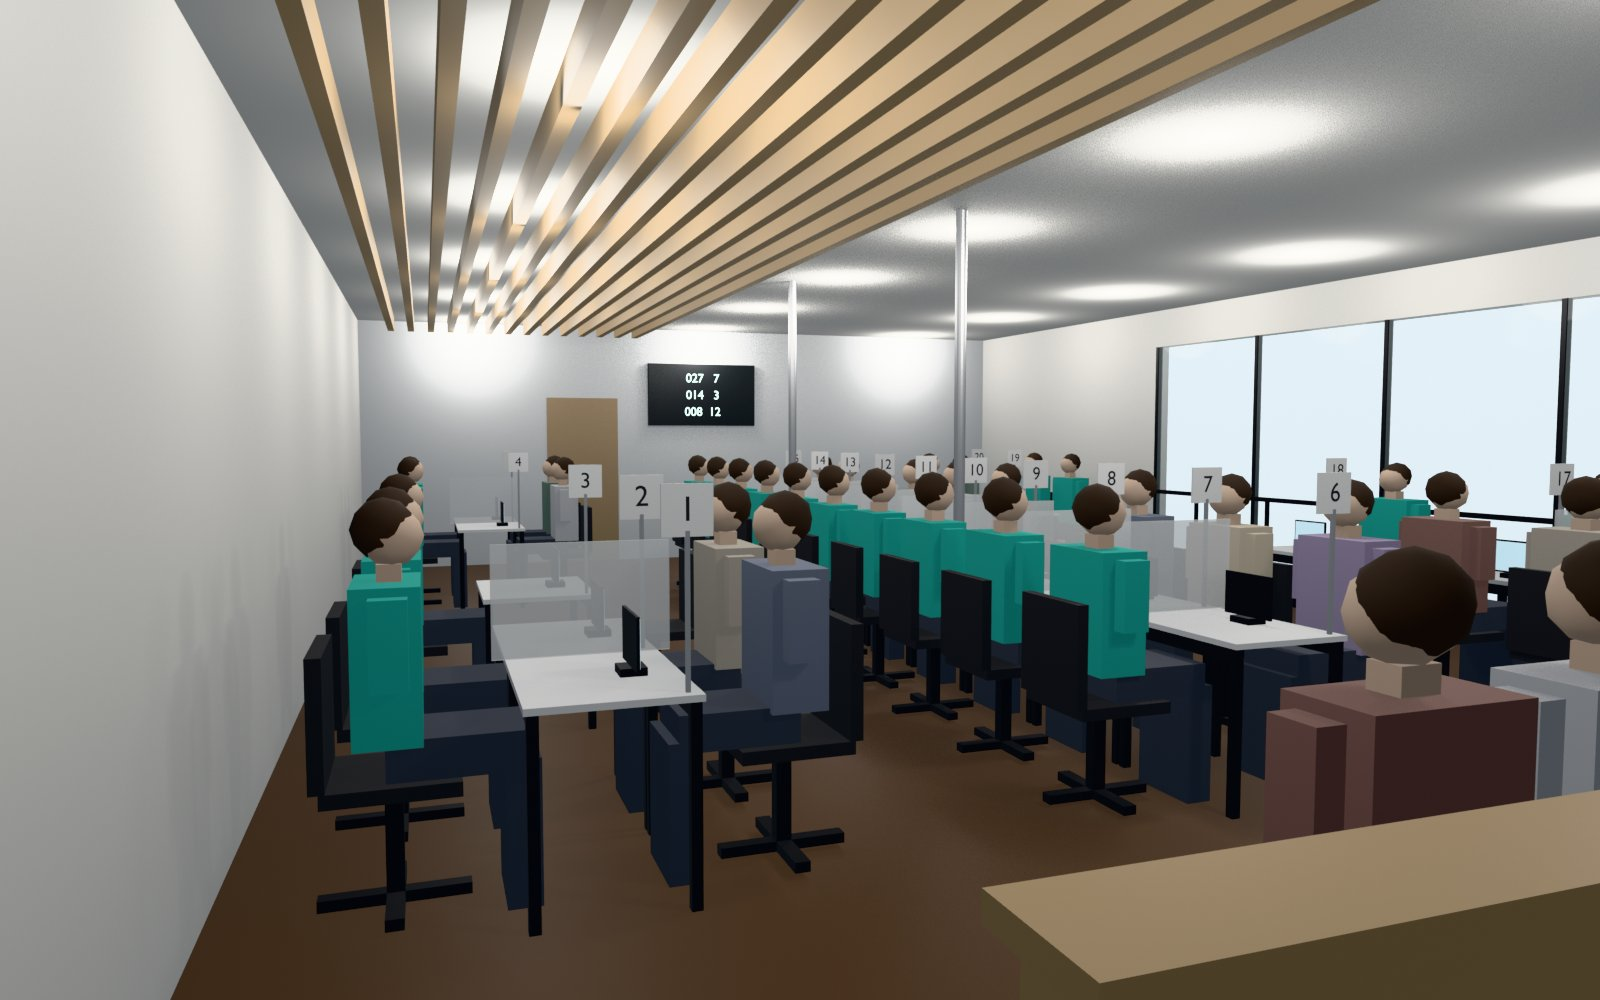
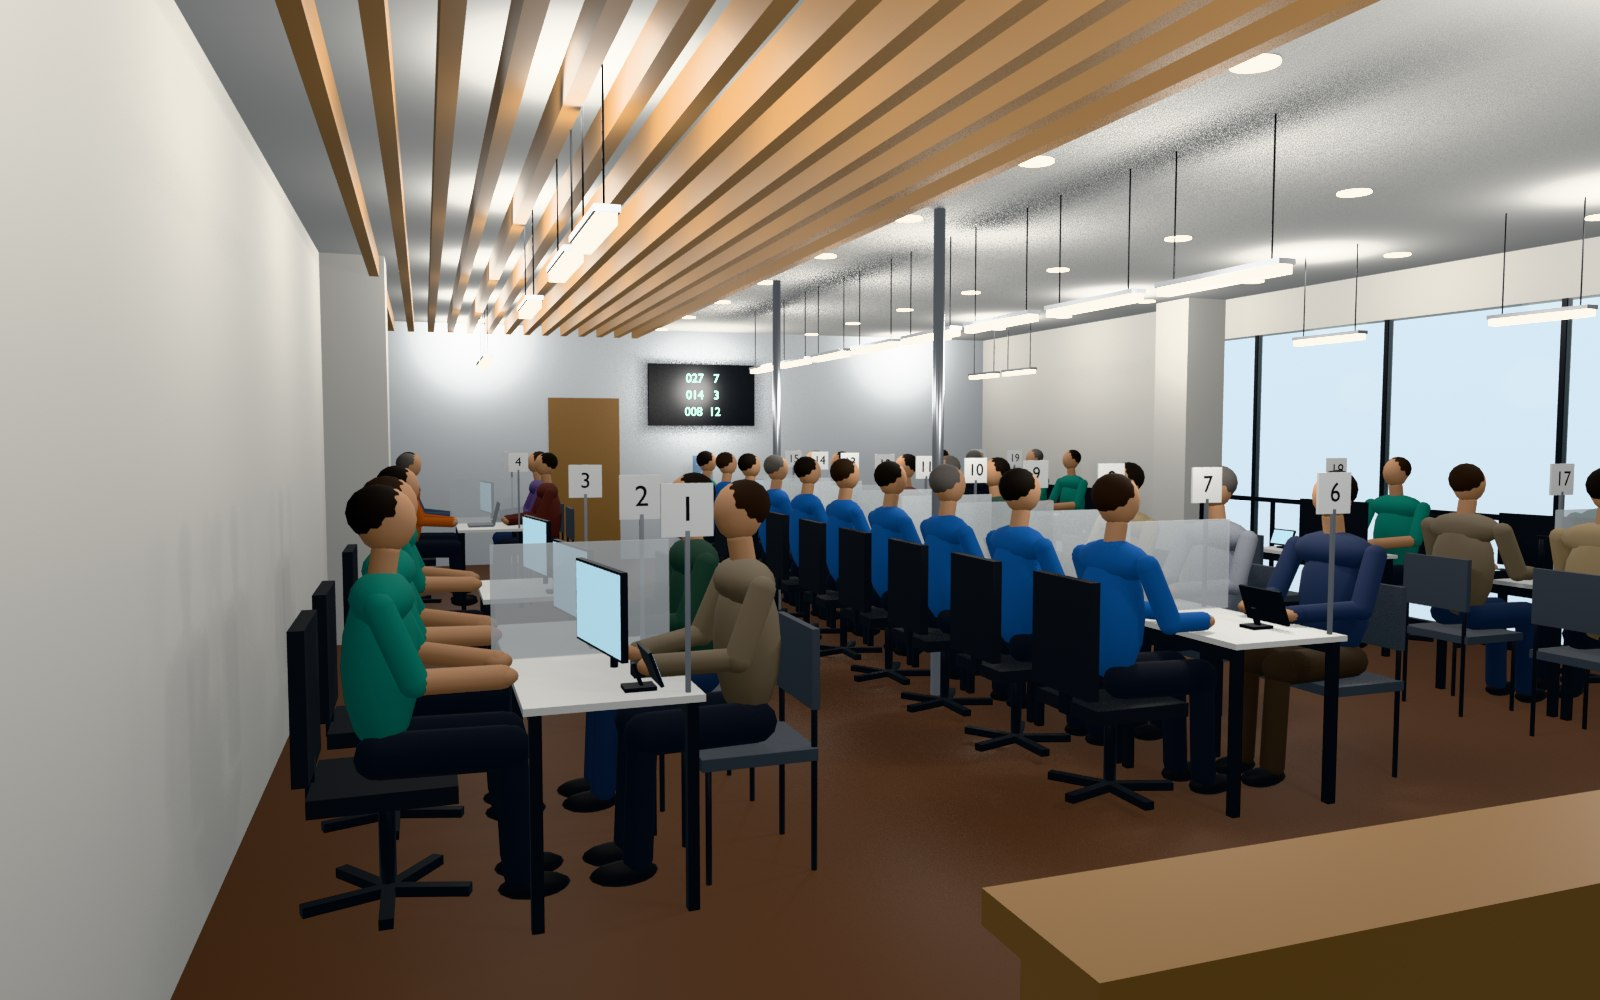
Расчёт оснащения: вид зала в точных размерах и вид сверху

diff --git a/zia-fitout/index.html b/zia-fitout/index.html
@@ -90,6 +90,8 @@ h3 { font: 600 16px/1.3 var(--font); }
 .plan-wrap svg { display: block; width: 100%; min-width: 760px; height: auto; }
 figcaption { font-size: 13.5px; color: var(--muted); margin-top: 8px; max-width: 80ch; }
 .view.wide { aspect-ratio: 16 / 10; }
+.view.top { aspect-ratio: 16 / 9; }
+.fig-2 { margin-top: 18px; }
 .fig-old { margin-top: 18px; max-width: 560px; }
 .view { display: block; width: 100%; height: auto; aspect-ratio: 4 / 3; object-fit: cover; border-radius: var(--r-m); border: 1px solid var(--line); background: var(--surface-2); }
 .pl-room { fill: var(--surface); stroke: var(--ink); stroke-width: 2; }
@@ -246,7 +248,11 @@ tfoot td { background: var(--surface-2); font-weight: 600; }
   <h2>Как офис увидит клиент</h2>
   <figure>
     <img class="view wide" src="office-view-3d.jpg" alt="Зал офиса с верхней площадки лестницы в точных размерах: слева у стены столы 1–5, в центре ряд из десяти столов, справа ряд у остекления, на переднем плане скамьи ожидания, в глубине перегородка техзоны с табло">
-    <figcaption>Вид с верхней площадки лестницы, с высоты глаз (около 1,6 м). Это черновик, построенный по размерам расстановки «вариант C»: зал 15,95 × 8,45 м, 20 столов 80 × 60 см, проходы, скамьи ожидания, перегородка техзоны и табло стоят на своих местах и в верном масштабе. Пока условно: фигуры людей, стулья, отделка стен и пола; высота потолка 3 м — моя оценка. Мониторы на столах ещё не поставлены.</figcaption>
+    <figcaption>Вид с верхней площадки лестницы, с высоты глаз (около 1,6 м). Построено по размерам расстановки «вариант C», без нейросети: зал 15,95 × 8,45 м, 20 столов 80 × 60 см, проходы, скамьи, перегородка техзоны и табло стоят на своих местах и в верном масштабе. Цвет одежды — как цвет стола на схеме ниже: бирюзовые — наши окна, синие — столы банка, оранжевый — партнёр, серый — старший смены. На наших окнах стоит монитор 24 дюйма: видно, сколько стола он занимает. Условно: фигуры людей, отделка стен и пола, техника на столах банка и партнёра; высота потолка 3 м — моя оценка.</figcaption>
+  </figure>
+  <figure class="fig-2">
+    <img class="view top" src="office-top-3d.jpg" alt="Тот же зал сверху без перспективы: слева лестница и скамьи ожидания, три ряда столов, справа общий принтер, кулер и перегородка техзоны">
+    <figcaption>Тот же зал сверху, без перспективы — все расстояния в одном масштабе. Потолок и стена с остеклением сняты, остекление внизу картинки. У дальней стены окна 1–5, в центре столы банка и окно 15, у остекления окна 16–20; справа от центрального ряда — общий принтер и кулер, дальше техзона.</figcaption>
   </figure>
   <figure class="fig-old">
     <img class="view" src="office-view.jpg" alt="Прежняя картинка нейросети: тот же офис, но зал намного больше настоящего и вид сверху">
